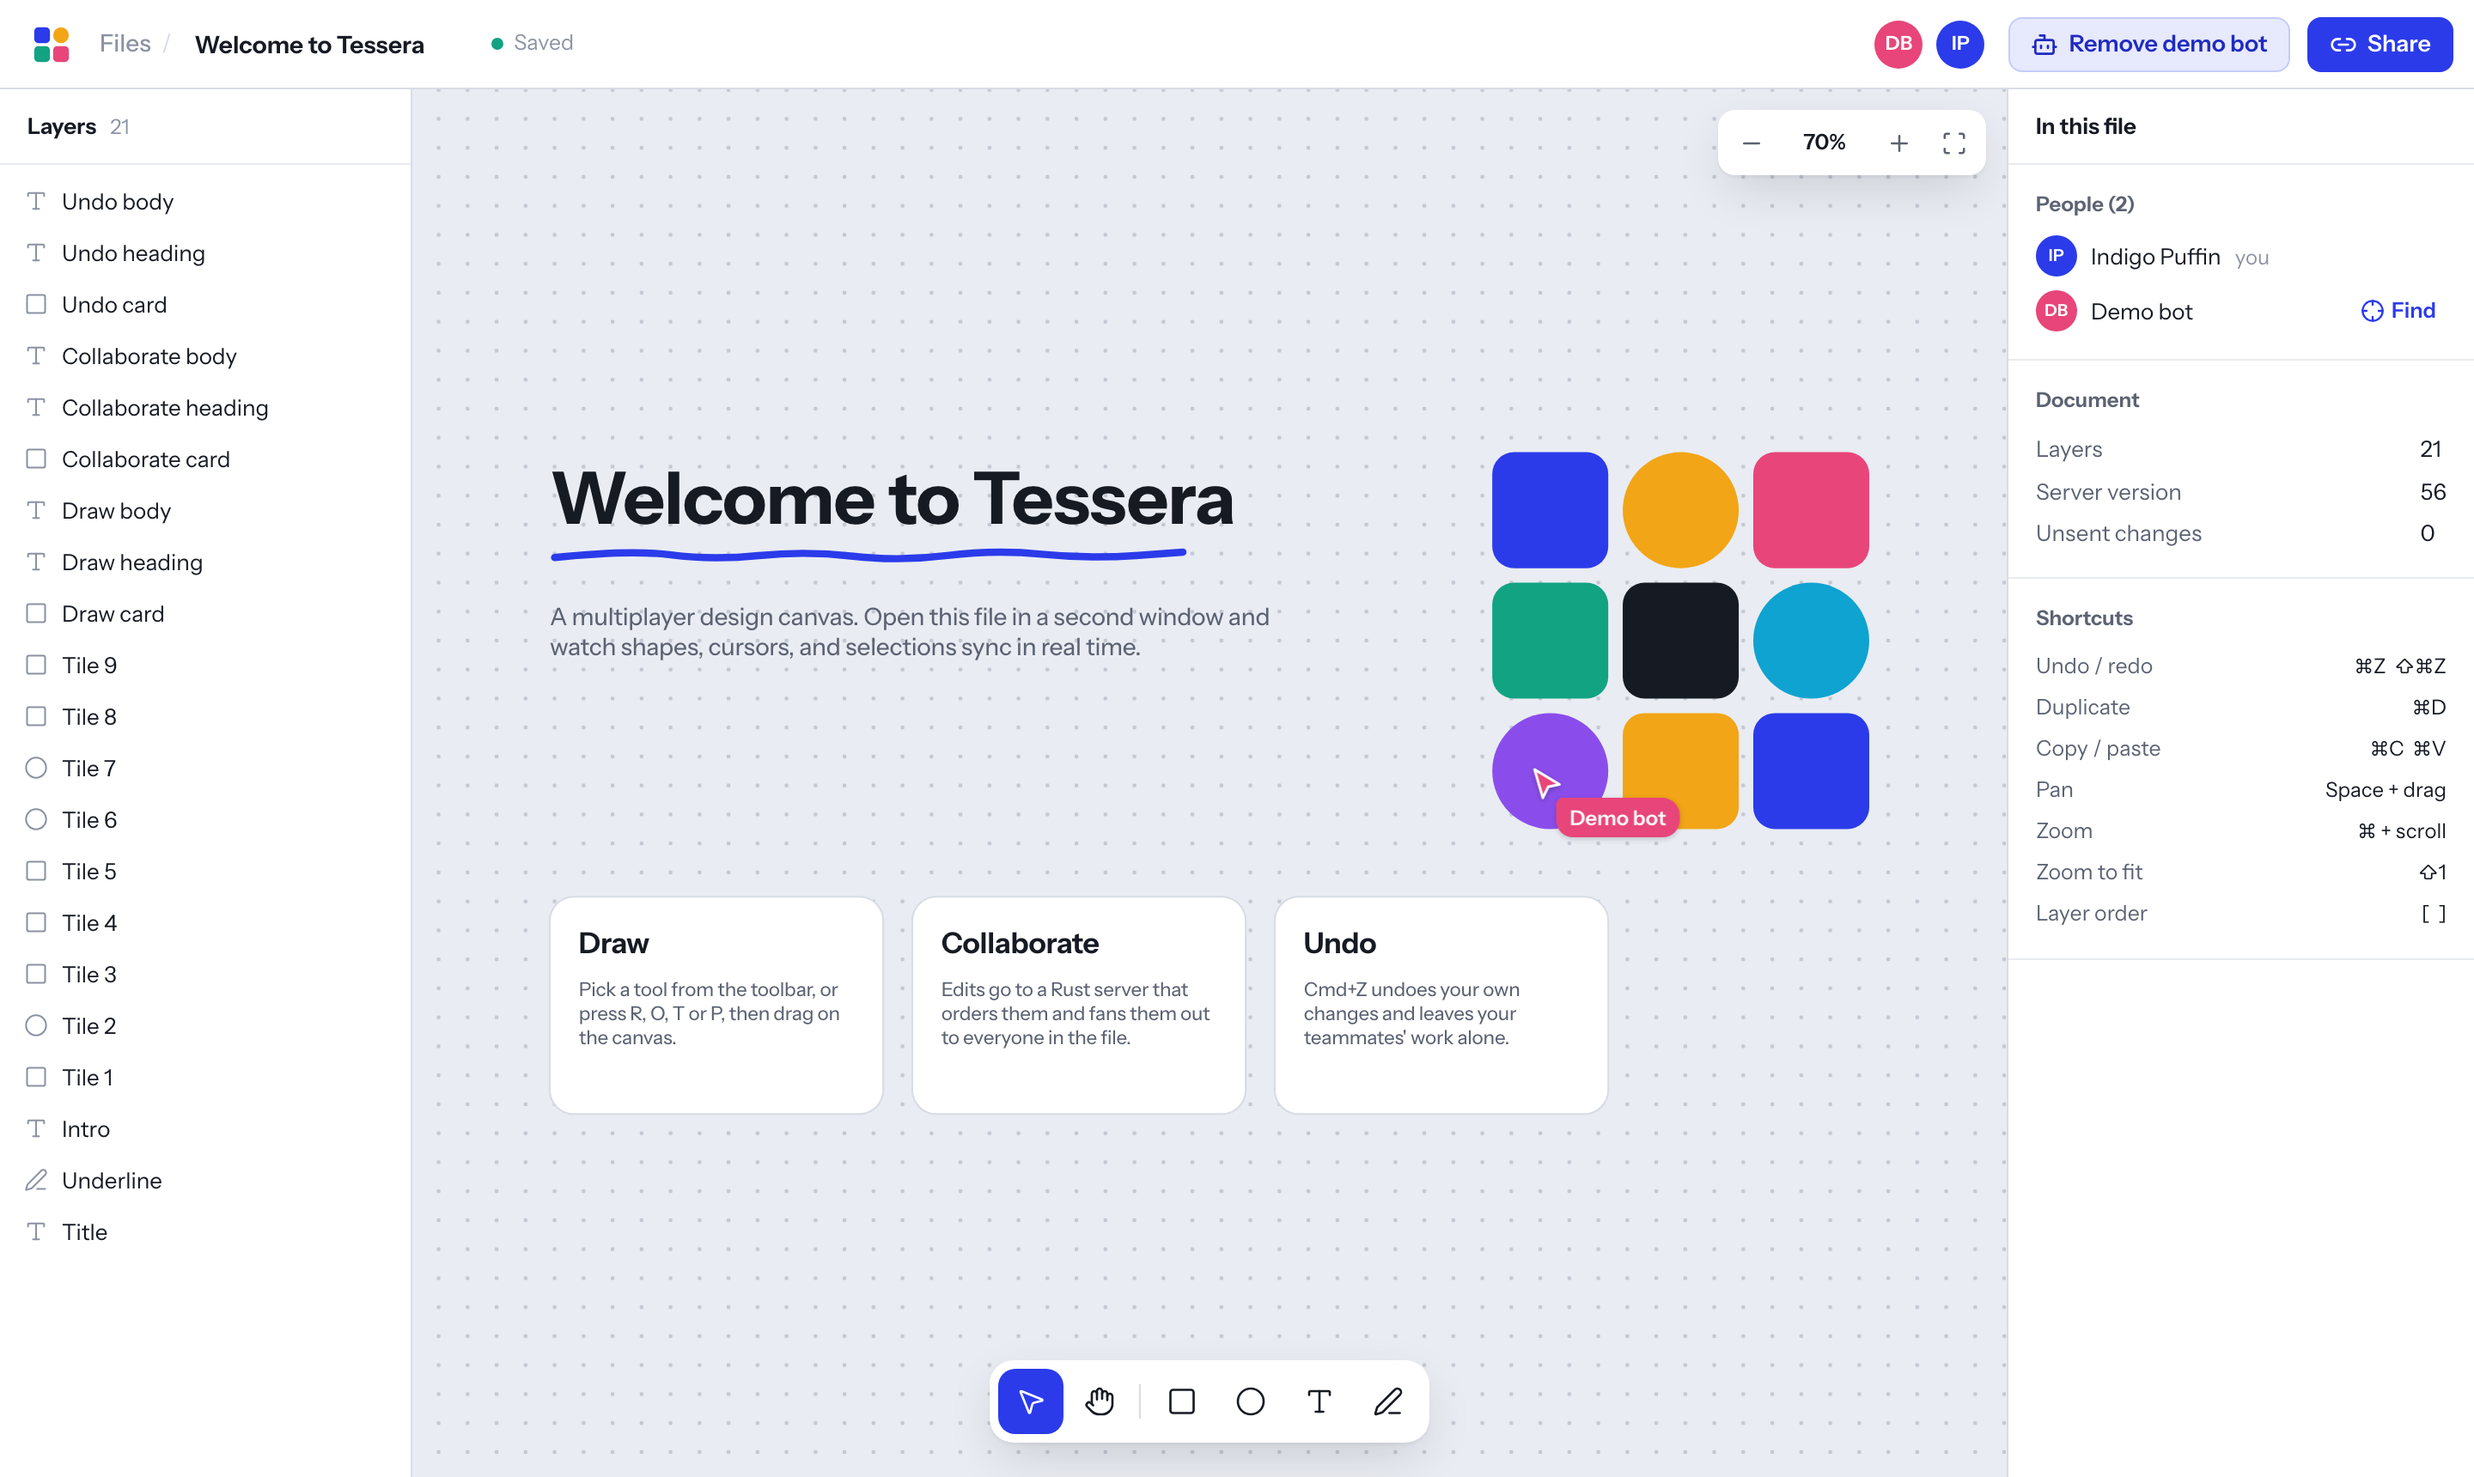
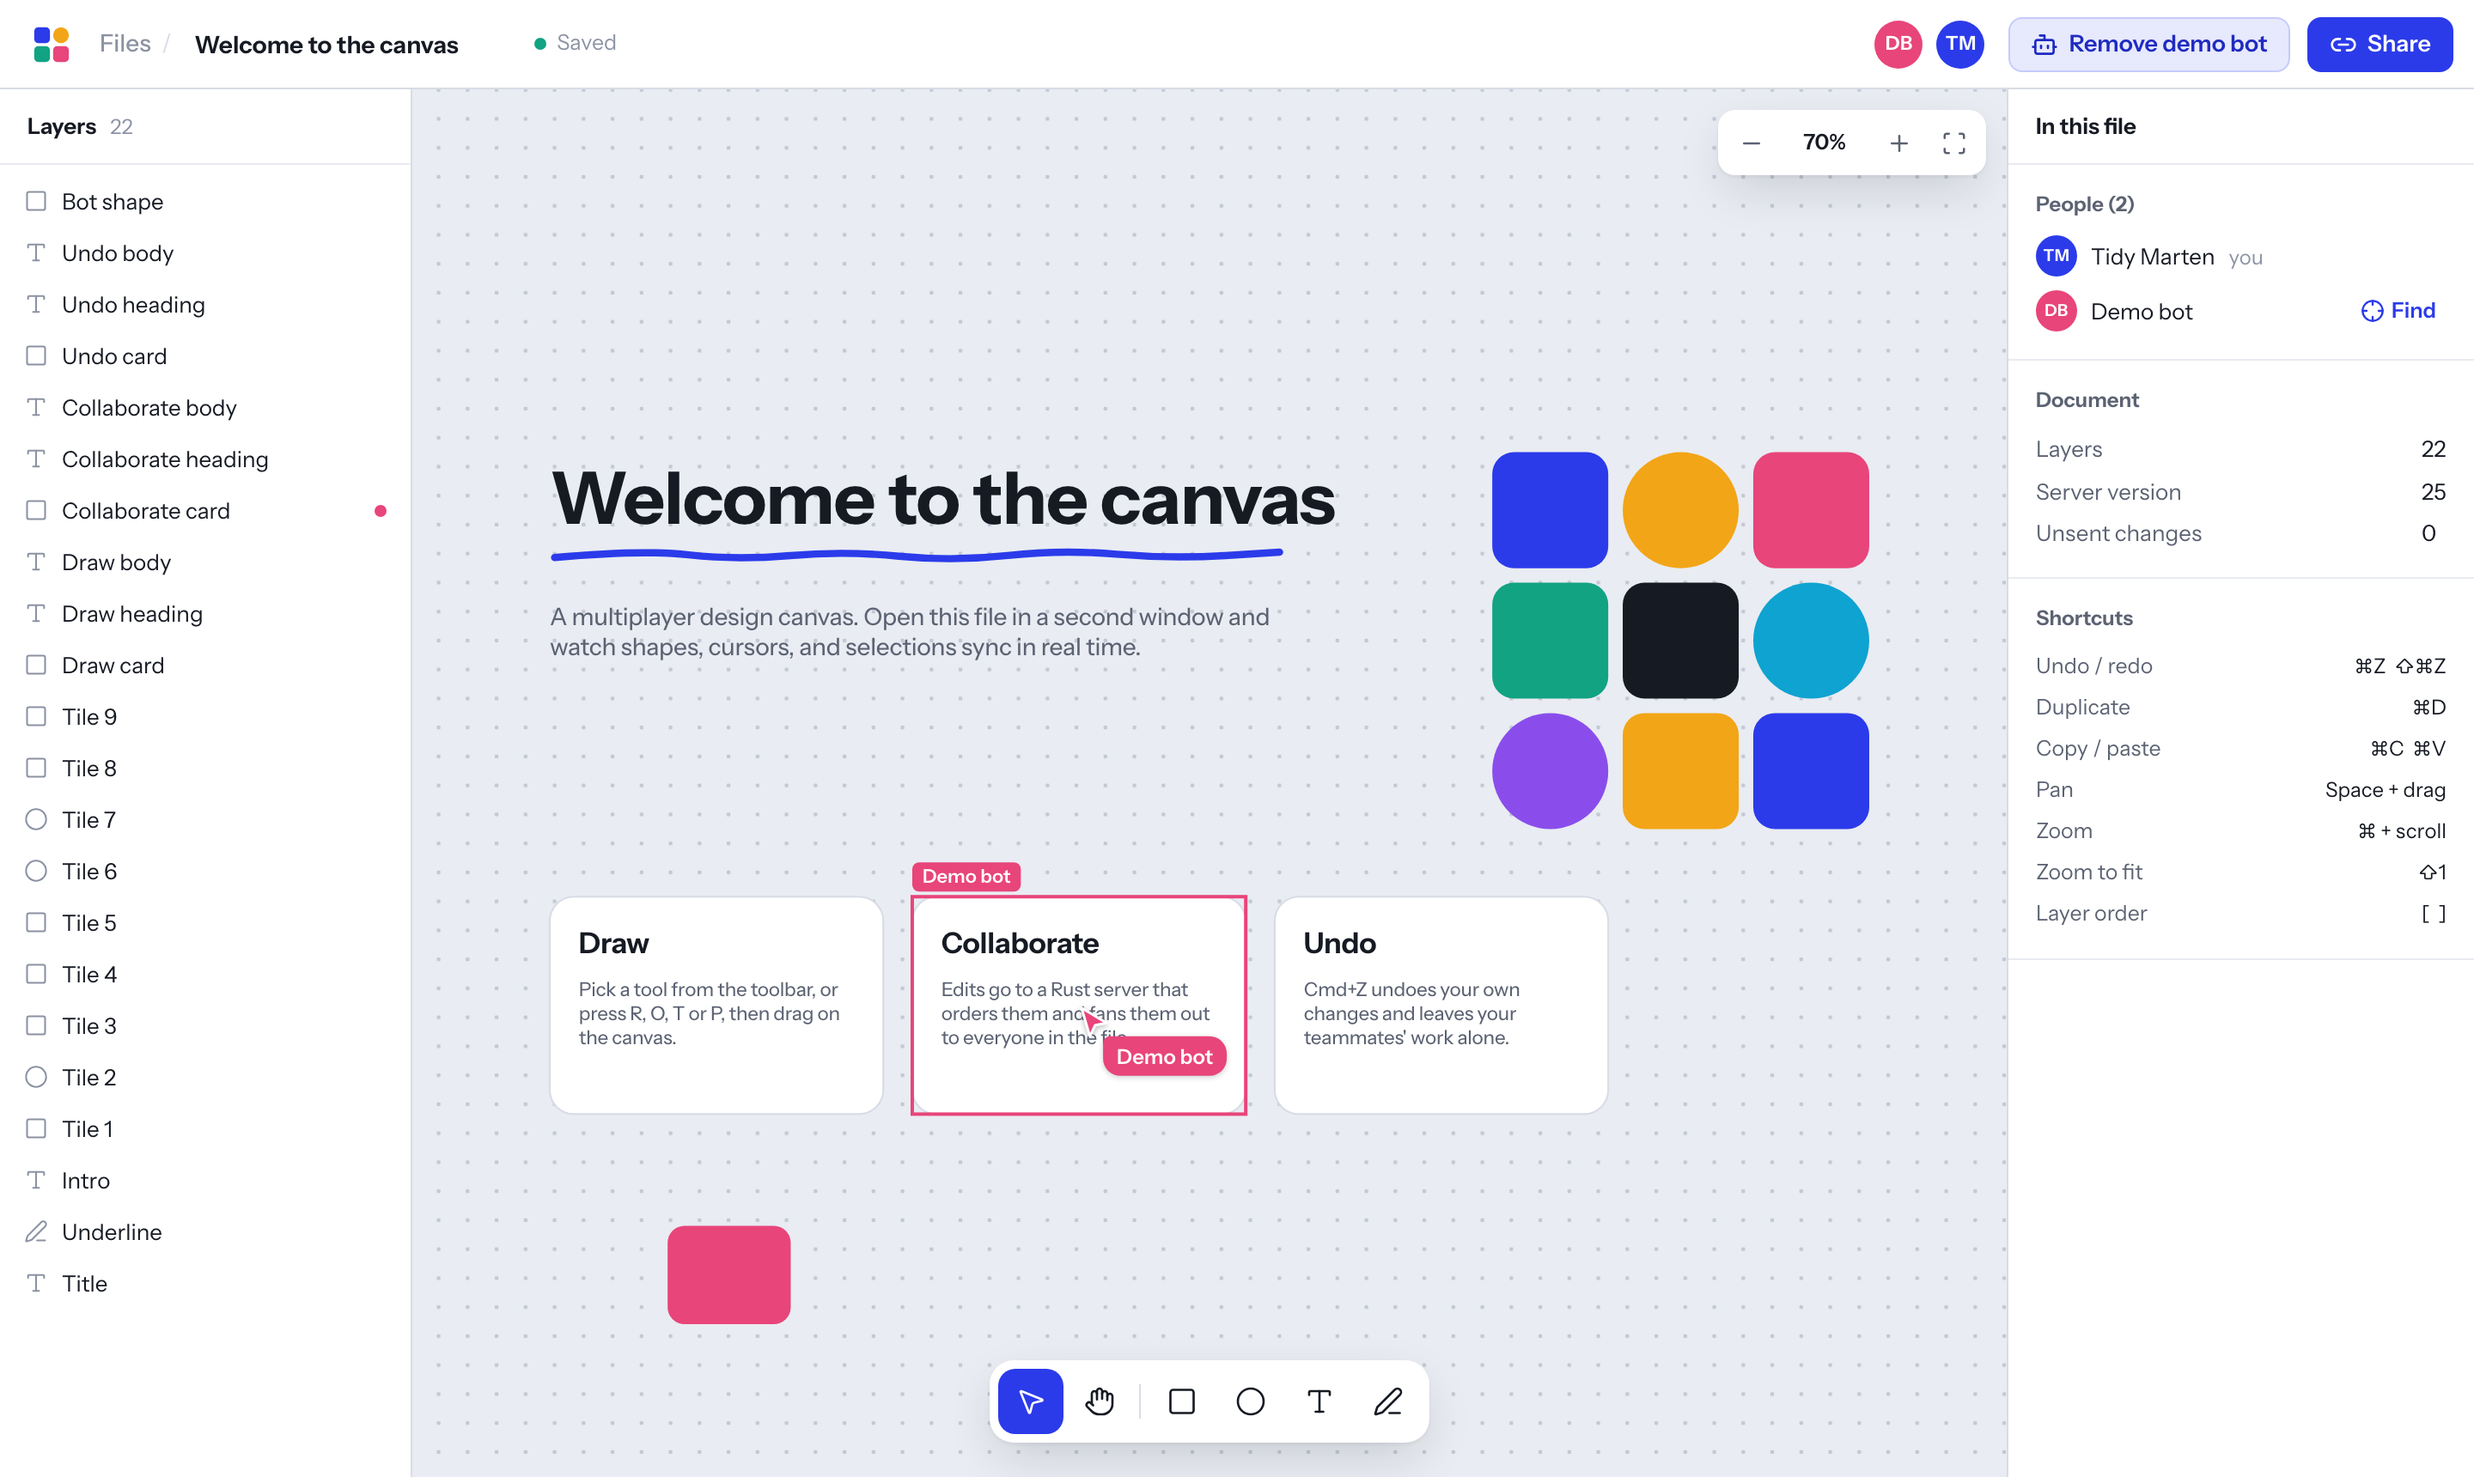
Rename Tessera to Collaborative Canvas Editor throughout
- UI: page titles, dashboard wordmark and intro, server error message.
- Welcome board: "Welcome to the canvas" (underline widened to match).
- Server crate and binary: collaborative-canvas-server.
- Config: CANVAS_DB (default canvas.db) and CANVAS_STATIC replace
  TESSERA_DB and TESSERA_STATIC.
- Browser keys: collaborative-canvas.name, collaborative-canvas:navigate,
  and the collaborative-canvas/nodes clipboard type. A name saved under
  the old key is not carried over; a new one is generated.
- Docker image, user, and volume names; README and screenshot.

diff --git a/web/src/dashboard/Dashboard.tsx b/web/src/dashboard/Dashboard.tsx
@@ -19,13 +19,13 @@ export function Dashboard() {
       setStats(s)
       setError(null)
     } catch {
-      setError("Can't reach the Tessera server. Check that it's running on port 8787, then reload.")
+      setError("Can't reach the canvas server. Check that it's running on port 8787, then reload.")
     }
   }, [])
 
   // Poll so live editor counts stay current.
   useEffect(() => {
-    document.title = 'Files – Tessera'
+    document.title = 'Files – Collaborative Canvas Editor'
     refresh()
     const t = setInterval(refresh, 4000)
     return () => clearInterval(t)
@@ -49,7 +49,7 @@ export function Dashboard() {
       <header className="dash-top">
         <div className="wordmark">
           <Logo size={26} />
-          <span>Tessera</span>
+          <span>Collaborative Canvas Editor</span>
         </div>
         <NameChip />
       </header>
@@ -58,7 +58,7 @@ export function Dashboard() {
         <div className="hero-copy">
           <h1>Design together, in the same file, at the same time.</h1>
           <p>
-            Tessera is a multiplayer canvas. Every edit travels through a Rust server that puts it in order and sends it
+            This is a multiplayer canvas editor. Every edit travels through a Rust server that puts it in order and sends it
             to everyone else in the file, so all collaborators end up with the same picture.
           </p>
         </div>

diff --git a/web/index.html b/web/index.html
@@ -4,9 +4,9 @@
     <meta charset="UTF-8" />
     <link rel="icon" type="image/svg+xml" href="/favicon.svg" />
     <meta name="viewport" content="width=device-width, initial-scale=1.0" />
-    <meta name="description" content="Tessera is a real-time multiplayer design canvas built with Rust and TypeScript." />
+    <meta name="description" content="Collaborative Canvas Editor is a real-time multiplayer design canvas built with Rust and TypeScript." />
     <meta name="theme-color" content="#E9ECF2" />
-    <title>Tessera</title>
+    <title>Collaborative Canvas Editor</title>
     <link rel="preconnect" href="https://fonts.googleapis.com" />
     <link rel="preconnect" href="https://fonts.gstatic.com" crossorigin />
     <link href="https://fonts.googleapis.com/css2?family=Bricolage+Grotesque:opsz,wght@12..96,500..800&family=Instrument+Sans:wght@400..700&display=swap" rel="stylesheet" />

diff --git a/web/src/lib/identity.ts b/web/src/lib/identity.ts
@@ -1,4 +1,4 @@
-const KEY = 'tessera.name'
+const KEY = 'collaborative-canvas.name'
 
 const ADJECTIVES = ['Amber', 'Brisk', 'Cobalt', 'Dapper', 'Eager', 'Fern', 'Gentle', 'Hazel', 'Indigo', 'Jolly', 'Keen', 'Lunar', 'Mellow', 'Nimble', 'Opal', 'Plucky', 'Quiet', 'Rosy', 'Sunny', 'Tidy', 'Velvet', 'Witty']
 const ANIMALS = ['Otter', 'Heron', 'Lynx', 'Marten', 'Finch', 'Badger', 'Koi', 'Puffin', 'Ibex', 'Wren', 'Gecko', 'Tapir', 'Moth', 'Quokka', 'Seal', 'Vole']

diff --git a/web/src/editor/Editor.tsx b/web/src/editor/Editor.tsx
@@ -251,7 +251,7 @@ function Editor({ client, docId }: { client: SyncClient; docId: string }) {
   }, [client, history, commit, zoomBy, startEditing])
 
   useEffect(() => {
-    document.title = snap.docName ? `${snap.docName} – Tessera` : 'Tessera'
+    document.title = snap.docName ? `${snap.docName} – Collaborative Canvas Editor` : 'Collaborative Canvas Editor'
   }, [snap.docName])
 
   const toggleBot = () => {

diff --git a/web/src/editor/actions.ts b/web/src/editor/actions.ts
@@ -67,7 +67,7 @@ export function selectedProps(views: NodeView[], selection: string[], get: (id: 
   return views.filter((v) => sel.has(v.id)).flatMap((v) => (get(v.id) ? [get(v.id)!] : []))
 }
 
-const CLIP_TYPE = 'tessera/nodes'
+const CLIP_TYPE = 'collaborative-canvas/nodes'
 
 export function toClipboard(props: Props[]): string {
   return JSON.stringify({ type: CLIP_TYPE, nodes: props })

diff --git a/web/src/lib/router.ts b/web/src/lib/router.ts
@@ -1,6 +1,6 @@
 import { useSyncExternalStore } from 'react'
 
-const EVENT = 'tessera:navigate'
+const EVENT = 'collaborative-canvas:navigate'
 
 export function navigate(path: string) {
   if (path === location.pathname) return

diff --git a/server/src/main.rs b/server/src/main.rs
@@ -1,8 +1,8 @@
+use collaborative_canvas_server::{app, seed_if_empty, spawn_flusher, Hub, Store};
 use std::net::SocketAddr;
 use std::path::PathBuf;
 use std::sync::Arc;
 use std::time::Duration;
-use tessera_server::{app, seed_if_empty, spawn_flusher, Hub, Store};
 use tower_http::trace::TraceLayer;
 use tracing_subscriber::EnvFilter;
 
@@ -18,9 +18,9 @@ async fn main() -> Result<(), Box<dyn std::error::Error>> {
         .ok()
         .and_then(|p| p.parse().ok())
         .unwrap_or(8787);
-    let db_path = std::env::var("TESSERA_DB").unwrap_or_else(|_| "tessera.db".into());
+    let db_path = std::env::var("CANVAS_DB").unwrap_or_else(|_| "canvas.db".into());
     let static_dir =
-        PathBuf::from(std::env::var("TESSERA_STATIC").unwrap_or_else(|_| "../web/dist".into()));
+        PathBuf::from(std::env::var("CANVAS_STATIC").unwrap_or_else(|_| "../web/dist".into()));
 
     let store = Store::open(&db_path)?;
     seed_if_empty(&store)?;
@@ -30,7 +30,9 @@ async fn main() -> Result<(), Box<dyn std::error::Error>> {
     let router = app(hub.clone(), Some(&static_dir)).layer(TraceLayer::new_for_http());
     let addr = SocketAddr::from(([0, 0, 0, 0], port));
     let listener = tokio::net::TcpListener::bind(addr).await?;
-    tracing::info!("tessera listening on http://localhost:{port} (db: {db_path})");
+    tracing::info!(
+        "collaborative-canvas-server listening on http://localhost:{port} (db: {db_path})"
+    );
 
     // WebSockets never close on their own, so rather than waiting for them we
     // stop on a signal, persist every open document, and exit. Clients reconnect

diff --git a/server/src/seed.rs b/server/src/seed.rs
@@ -7,8 +7,8 @@ const DIGITS: &[u8] = b"0123456789ABCDEFGHIJKLMNOPQRSTUVWXYZabcdefghijklmnopqrst
 
 pub fn welcome() -> Doc {
     let mut nodes: Vec<Value> = vec![
-        json!({"type":"text","name":"Title","x":80,"y":72,"w":760,"h":68,"text":"Welcome to Tessera","fontSize":60,"fontWeight":700,"fill":"#161A23"}),
-        json!({"type":"path","name":"Underline","x":84,"y":146,"w":520,"h":22,"stroke":"#2B3BEA","strokeWidth":6,
+        json!({"type":"text","name":"Title","x":80,"y":72,"w":760,"h":68,"text":"Welcome to the canvas","fontSize":60,"fontWeight":700,"fill":"#161A23"}),
+        json!({"type":"path","name":"Underline","x":84,"y":146,"w":600,"h":22,"stroke":"#2B3BEA","strokeWidth":6,
                "points":[[0,0.6],[0.12,0.3],[0.25,0.7],[0.4,0.35],[0.55,0.75],[0.7,0.3],[0.85,0.65],[1,0.4]]}),
         json!({"type":"text","name":"Intro","x":80,"y":196,"w":640,"h":60,"text":"A multiplayer design canvas. Open this file in a second window and watch shapes, cursors, and selections sync in real time.","fontSize":20,"fontWeight":450,"fill":"#5B6272"}),
     ];

diff --git a/server/tests/multiplayer.rs b/server/tests/multiplayer.rs
@@ -2,13 +2,13 @@
 
 use axum::body::Body;
 use axum::http::{Request, StatusCode};
+use collaborative_canvas_server::{app, Hub, Store};
 use futures_util::{SinkExt, StreamExt};
 use http_body_util::BodyExt;
 use serde_json::{json, Value};
 use std::net::SocketAddr;
 use std::sync::Arc;
 use std::time::Duration;
-use tessera_server::{app, Hub, Store};
 use tokio::net::TcpStream;
 use tokio_tungstenite::tungstenite::Message;
 use tokio_tungstenite::{MaybeTlsStream, WebSocketStream};

diff --git a/server/src/lib.rs b/server/src/lib.rs
@@ -31,7 +31,7 @@ pub fn seed_if_empty(store: &Store) -> rusqlite::Result<()> {
         let doc = seed::welcome();
         store.create(
             &api::new_id(),
-            "Welcome to Tessera",
+            "Welcome to the canvas",
             &doc.to_json(),
             doc.len(),
         )?;

diff --git a/README.md b/README.md
@@ -1,4 +1,4 @@
-# Collaborative Canvas Editor (Tessera)
+# Collaborative Canvas Editor
 
 A real-time multiplayer design canvas. Several people edit the same file at once, see each
 other's cursors and selections live, and always end up with an identical document.
@@ -13,7 +13,7 @@ cargo run (server/)  +  npm run dev (web/)  →  http://localhost:5173
 Open a file in two windows, or press **Add demo bot** to invite a scripted collaborator that
 connects over its own WebSocket and edits alongside you.
 
-![Tessera editor with the demo bot's live cursor, the layers panel, and the presence panel](docs/screenshot.png)
+![The editor with the demo bot's live cursor and selection, the layers panel, and the presence panel](docs/screenshot.png)
 
 ---
 
@@ -135,7 +135,7 @@ cd web && npm test               # 26 tests
 **Development** (hot reload; Vite proxies `/api` and `/ws` to the server):
 
 ```bash
-cd server && cargo run          # :8787, creates tessera.db with a welcome file
+cd server && cargo run          # :8787, creates canvas.db with a welcome file
 cd web && npm install && npm run dev   # :5173
 ```
 
@@ -149,11 +149,11 @@ cd server && cargo run --release        # http://localhost:8787
 **Docker:**
 
 ```bash
-docker build -t tessera .
-docker run -p 8787:8787 -v tessera-data:/data tessera
+docker build -t collaborative-canvas-editor .
+docker run -p 8787:8787 -v canvas-data:/data collaborative-canvas-editor
 ```
 
-Configuration: `PORT` (8787), `TESSERA_DB` (`tessera.db`), `TESSERA_STATIC` (`../web/dist`),
+Configuration: `PORT` (8787), `CANVAS_DB` (`canvas.db`), `CANVAS_STATIC` (`../web/dist`),
 `RUST_LOG`.
 
 ## Layout
